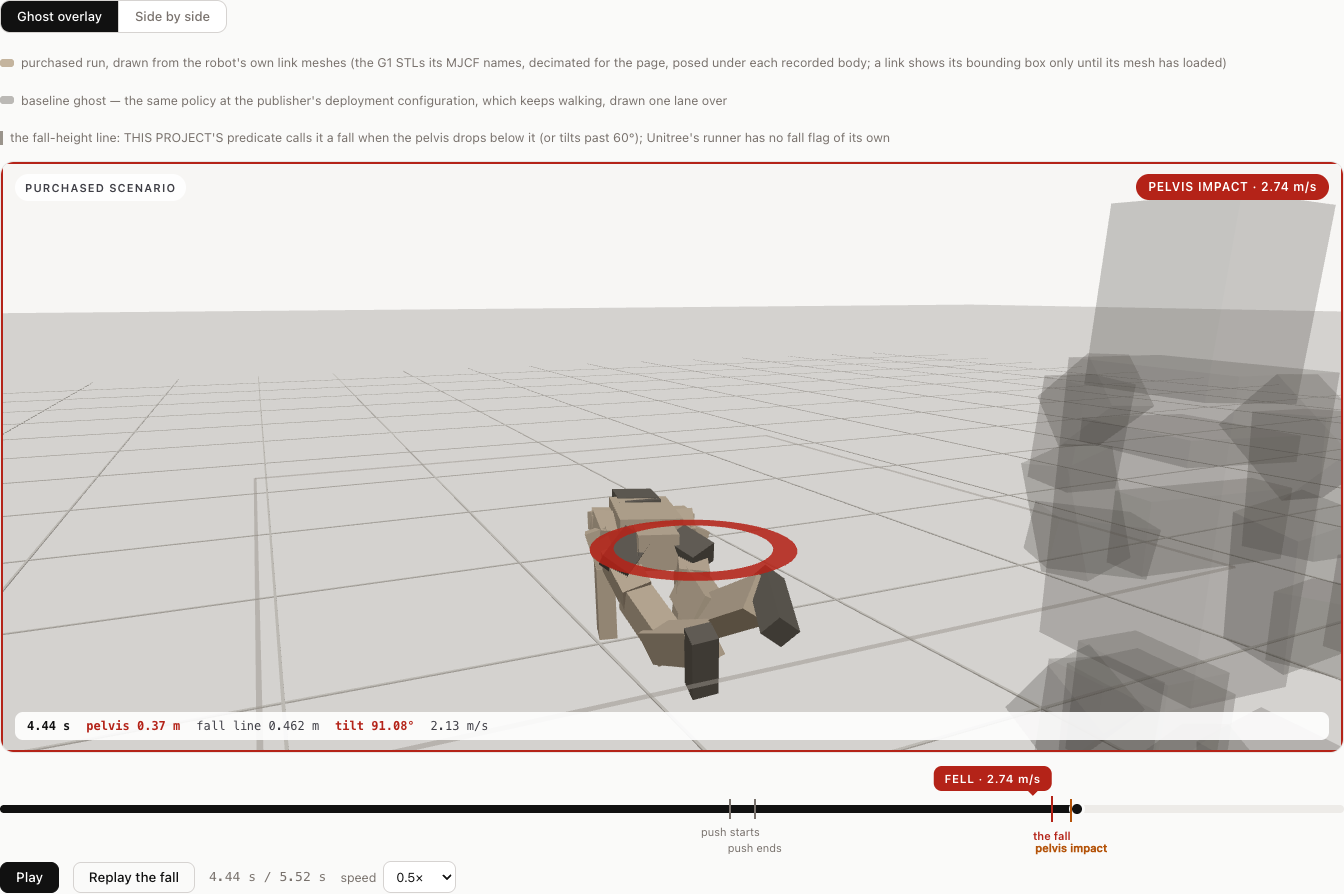
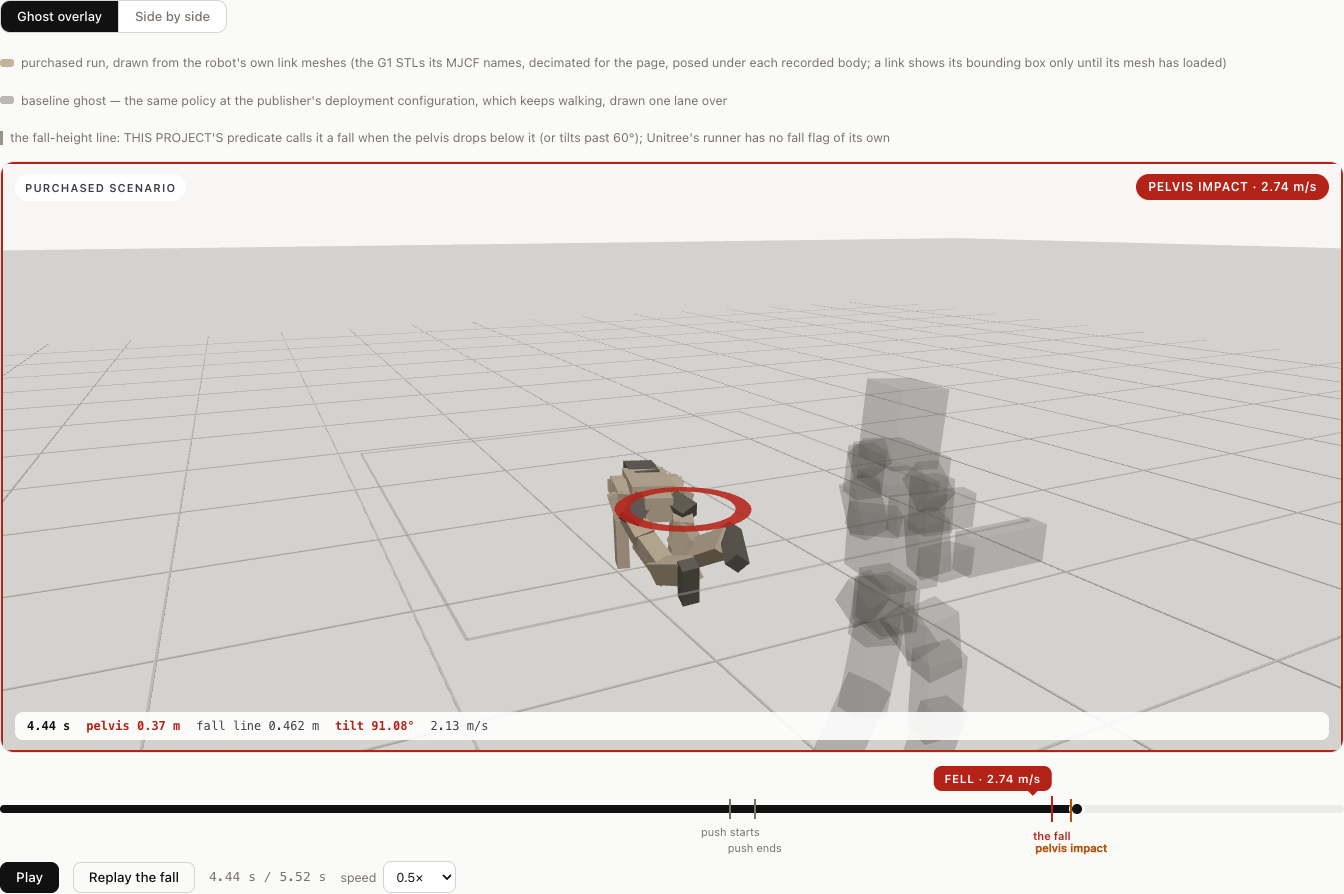
g1 target: replay camera framed for a side shove, evidence notes, progress log

diff --git a/PROGRESS-g1.md b/PROGRESS-g1.md
@@ -2,3 +2,4 @@
 2026-09-11 11:22 PDT — sim side complete: tailbazaar_sim/g1 (scene, policy, envelope, simulate, hunter, nominal, cli) + sim/envelope-g1.yaml; selfcheck all ok; nominal suite 7/7 SURVIVED (published conditions: 15 s, 6.92 m at 0.5 m/s command); baseline trajectory 0x0f1ee78c...
 2026-09-11 11:37 PDT — web side registered (targets.ts, envelope-g1.ts, failure.ts per-target FELL copy, replay-g1.ts + rendererFor, target-view.ts, ledger, cli --target); meshes decimated 25.2->6.3 MB; determinism proven twice (push-28ns traj 0x4724e8b2 state cbab4185; latency-80ms traj 0x2027d044 state 9f307e69; 2 in-process + 1 subprocess each); envelope-g1 8/8, verifier-g1 4/4 + cleanup green
 2026-09-11 11:46 PDT — pipeline for g1 only on PORT=3188 against a copy of the demo DB: 2 listings VERIFIED (exact-trajectory-hash), funded, delivered, retrieved, settled VALID, seller paid (orders 0x52bf4160…, 0xc2b9b524…); web unit 113/113, integration 12/12, forge 22/22; evidence/ui/g1-fall.png captured with all 27 meshes
+2026-09-11 11:47 PDT — final: camera pulled back for side-shove framing, order page recaptured (evidence/ui/g1-fall.png); all suites green (web 113, integration 12, forge 22); worktree server on 3188 stopped

diff --git a/evidence/g1/README.md b/evidence/g1/README.md
@@ -92,4 +92,7 @@ other target; on another machine the verifier abstains (INCONCLUSIVE) rather tha
 `PORT=3188 npm run demo -- --target g1` against the local anvil, with a copy of the demonstration
 database: the seller's grid-push hunt, two listings verified VALID by re-run in the verifier's own
 environment, funded, delivered, retrieved by signed challenge and settled on chain; receipts and
-public summaries are in `../local-g1/`, the order page render in `../ui/g1-fall.png`.
+public summaries are in `../local-g1/`, the order page render in `../ui/g1-fall.png` (the replay at
+4.44 s, all 27 link meshes loaded, the fall ring on the pelvis, the ghost one lane over; because the
+side shove carried the purchased robot about 3 m across the lane the ghost keeps walking in, and the
+framing follows the purchased subject, the ghost stands nearer the camera than in a frontal case).
